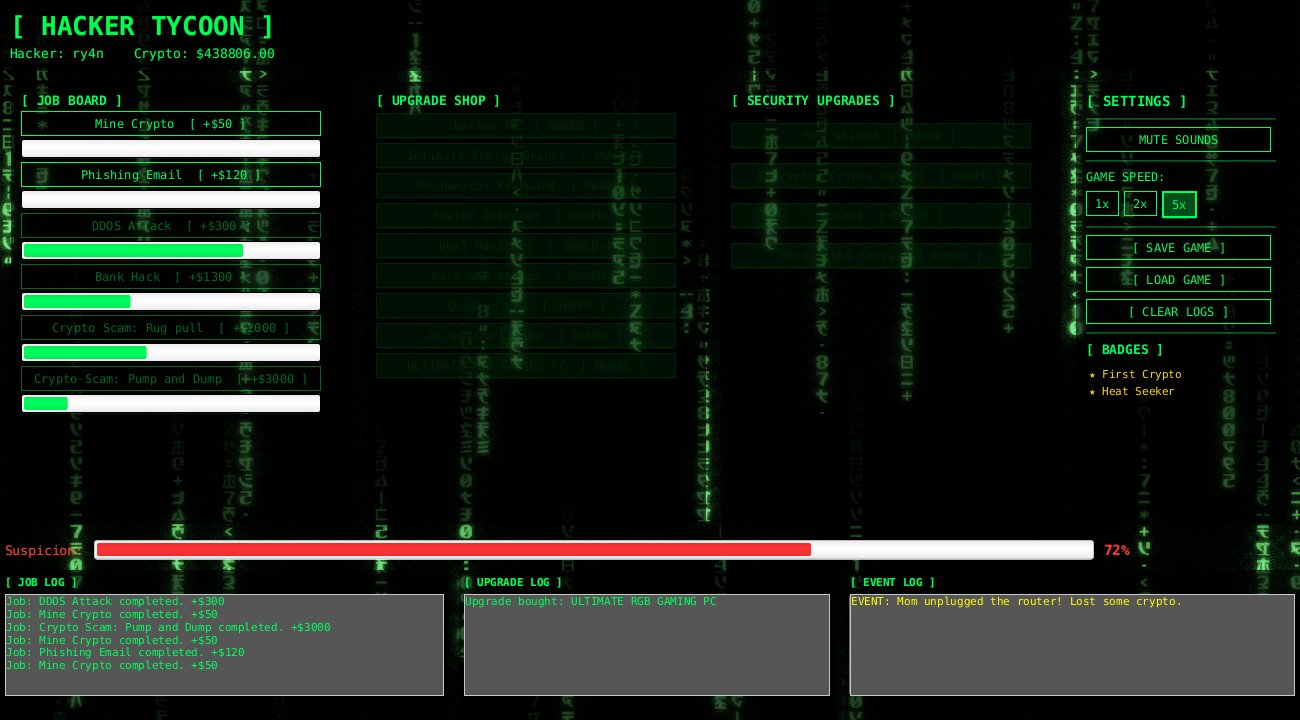
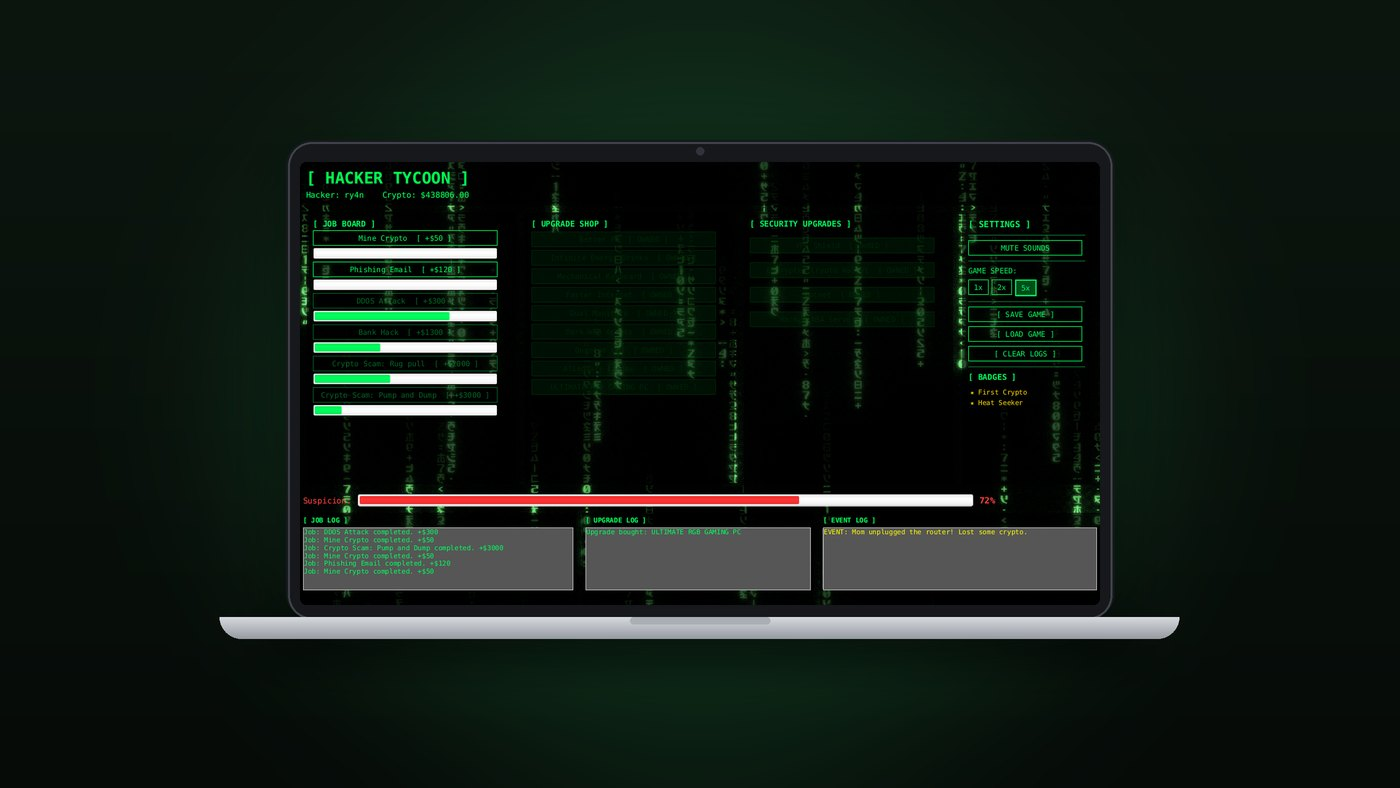
Device-mockup covers for every project, fresh TaskMate screens
Every project cover is now a device mockup on a background tinted to
the project: websites (Nook Look Studio, Vancobab, this site) on a
laptop with a phone in front, apps (TaskMate, FoodRoutes) as three
phones, and Hacker Tycoon, a desktop game, on a laptop. Screenshots are
fresh captures of the live sites; TaskMate's app screens come from a
local run with example BCIT courses, replacing old captures that had
annotation boxes and placeholder test data. The TaskMate case study's
text now matches its new screens.

Card images crop from the centre so a mockup's devices stay whole while
the image drifts, the Projects page shows Vancobab's cover instead of
generated art, and the unused old screenshots are removed.

diff --git a/projects/taskmate.html b/projects/taskmate.html
@@ -113,7 +113,7 @@
             "name": "TaskMate",
             "url": "https://ryanyarali.com/projects/taskmate.html",
             "description": "Mobile-friendly task manager for students, built end to end with Firebase Authentication and Firestore as BCIT coursework (COMM 1800, Team DTC 09) and tested by a nine-person class team.",
-            "image": "https://ryanyarali.com/assets/TaskMate6.jpg",
+            "image": "https://ryanyarali.com/assets/tm-cover.jpg",
             "contributor": {
               "@id": "https://ryanyarali.com/#ryan"
             },
@@ -138,7 +138,7 @@
             },
             "primaryImageOfPage": {
               "@type": "ImageObject",
-              "url": "https://ryanyarali.com/assets/TaskMate6.jpg"
+              "url": "https://ryanyarali.com/assets/tm-cover.jpg"
             }
           },
           {
@@ -147,7 +147,7 @@
             "headline": "TaskMate: academic task management",
             "url": "https://ryanyarali.com/projects/taskmate.html",
             "description": "Case study: a student task manager built end to end with Firebase auth and Firestore as BCIT coursework.",
-            "image": "https://ryanyarali.com/assets/TaskMate6.jpg",
+            "image": "https://ryanyarali.com/assets/tm-cover.jpg",
             "inLanguage": "en",
             "datePublished": "2026-03-27T12:00:00-07:00",
             "dateModified": "2026-10-06T12:00:00-07:00",
@@ -248,10 +248,10 @@
           </div>
           <figure class="case-cover" data-vt="taskmate">
             <img
-              src="../assets/TaskMate6.jpg"
-              alt="TaskMate dashboard listing a student’s tasks by course"
-              width="1000"
-              height="508"
+              src="../assets/tm-cover.jpg"
+              alt="Three TaskMate phone screens: the home dashboard welcoming Ryan, the To Do list grouped by due date with priorities, and completed tasks with check marks"
+              width="1400"
+              height="788"
               fetchpriority="high"
               decoding="async"
             />
@@ -318,35 +318,35 @@
 
               <div class="screenshots-grid">
                 <figure class="reveal">
-                  <img src="../assets/TaskMate1.jpg" alt="Home dashboard screen" width="440" height="880" />
+                  <img src="../assets/tm-home.jpg" alt="Home dashboard on a phone: Welcome, Ryan!, Add New Task and View All Tasks buttons, the start of Today's Tasks, and the bottom tab bar" width="520" height="1125" loading="lazy" decoding="async" />
                   <figcaption>
                     <strong>Screen 1: Home dashboard</strong><br />Personalized
                     welcome with today's tasks
                   </figcaption>
                 </figure>
                 <figure class="reveal">
-                  <img src="../assets/TaskMate2.jpg" alt="Pending tasks screen" width="440" height="866" />
+                  <img src="../assets/tm-todo.jpg" alt="To Do list on a phone: course and priority filters above tasks grouped by due date, each with a course, a task name, a priority and an empty circle" width="520" height="1125" loading="lazy" decoding="async" />
                   <figcaption>
                     <strong>Screen 2: Pending tasks</strong><br />All
                     incomplete tasks sorted by due date
                   </figcaption>
                 </figure>
                 <figure class="reveal">
-                  <img src="../assets/TaskMate3.jpg" alt="Completed tasks screen" width="440" height="833" />
+                  <img src="../assets/tm-done.jpg" alt="Done list on a phone: filters and a Delete All button above completed tasks grouped by completion date, each with a red check mark" width="520" height="1125" loading="lazy" decoding="async" />
                   <figcaption>
                     <strong>Screen 3: Completed tasks</strong><br />Progress
                     history and completion tracking
                   </figcaption>
                 </figure>
                 <figure class="reveal">
-                  <img src="../assets/TaskMate4.jpg" alt="Task detail screen" width="316" height="296" />
+                  <img src="../assets/tm-detail.jpg" alt="Task Detail screen on a phone: editable course, task name, description, due date and priority fields" width="520" height="1125" loading="lazy" decoding="async" />
                   <figcaption>
-                    <strong>Screen 4: Task details</strong><br />Priority
-                    badges and course context
+                    <strong>Screen 4: Task details</strong><br />Edit any
+                    field, then save or delete
                   </figcaption>
                 </figure>
                 <figure class="reveal">
-                  <img src="../assets/TaskMate5.jpg" alt="FAQ and help screen" width="440" height="424" />
+                  <img src="../assets/tm-faq.jpg" alt="FAQ screen on a phone: category filter chips and expandable questions, with the first answer open" width="520" height="1125" loading="lazy" decoding="async" />
                   <figcaption>
                     <strong>Screen 5: FAQ &amp; help</strong><br />Categorized
                     Q&amp;A with expandable answers
@@ -358,8 +358,8 @@
 
               <h4>Home dashboard (screen 1)</h4>
               <p>
-                The home screen greets users by name (e.g. "Welcome, Fish
-                Liu!") with the tagline: "Stay focused. Stay productive. One
+                The home screen greets users by name (e.g. "Welcome,
+                Ryan!") with the tagline: "Stay focused. Stay productive. One
                 task at a time."
               </p>
               <p><strong>Key UI elements:</strong></p>
@@ -385,8 +385,8 @@
               </p>
               <p><strong>Each task card shows:</strong></p>
               <ul>
-                <li>Course name (e.g. COMP1510, Math, 1800)</li>
-                <li>Task name (e.g. Term project, Submission)</li>
+                <li>Course name (e.g. COMP 2537, COMM 1116, MATH 2030)</li>
+                <li>Task name (e.g. Lab 6, Essay, Quiz 4)</li>
                 <li>Priority level: high / medium / low</li>
                 <li>An empty circle on the right to mark as complete</li>
               </ul>
@@ -403,14 +403,14 @@
                 can see what they've gotten through over the term.
               </p>
 
-              <h4>Task card detail (screen 4)</h4>
-              <p>A focused view of task information when expanded, showing:</p>
+              <h4>Task detail (screen 4)</h4>
+              <p>Tapping a task opens it for editing, with every field in one place:</p>
               <ul>
-                <li>Task name</li>
-                <li>Priority badge (color-coded)</li>
-                <li>Course identifier</li>
-                <li>Category / course section</li>
-                <li>Due date status</li>
+                <li>Course name and task name</li>
+                <li>Description</li>
+                <li>Due date</li>
+                <li>Priority: low / medium / high</li>
+                <li>"Save changes" and "Delete task" actions</li>
               </ul>
 
               <h4>FAQ / help page (screen 5)</h4>

diff --git a/projects.html b/projects.html
@@ -134,7 +134,7 @@
                     "name": "Nook Look Studio",
                     "url": "https://nooklook.ca",
                     "description": "Website for Nook Look Studio, a portrait photography studio in Coquitlam, BC: four priced service lines, a booking pipeline, a filterable gallery and local SEO. Built and launched solo by Ryan Yarali on WordPress.",
-                    "image": "https://ryanyarali.com/assets/nl-hero.jpg",
+                    "image": "https://ryanyarali.com/assets/nl-cover.jpg",
                     "creator": {
                       "@id": "https://ryanyarali.com/#ryan"
                     },
@@ -154,7 +154,7 @@
                     "name": "Vancobab",
                     "url": "https://vancobab.ca",
                     "description": "Five-page website for Vancobab, a Persian kebab food truck in Vancouver: a Persian visual identity, launch signups while the truck gets ready, and a vanilla JavaScript order builder ready for opening day.",
-                    "image": "https://ryanyarali.com/assets/vb-hero.jpg",
+                    "image": "https://ryanyarali.com/assets/vb-cover.jpg",
                     "creator": {
                       "@id": "https://ryanyarali.com/#ryan"
                     },
@@ -194,7 +194,7 @@
                     "name": "TaskMate",
                     "url": "https://ryanyarali.com/projects/taskmate.html",
                     "description": "Mobile-friendly task manager for students, built end to end with Firebase Authentication and Firestore as BCIT coursework (COMM 1800, Team DTC 09) and tested by a nine-person class team.",
-                    "image": "https://ryanyarali.com/assets/TaskMate6.jpg",
+                    "image": "https://ryanyarali.com/assets/tm-cover.jpg",
                     "contributor": {
                       "@id": "https://ryanyarali.com/#ryan"
                     },
@@ -352,7 +352,7 @@
               <div class="project-accordion-panel" id="project-panel-nooklook">
                 <div class="project-accordion-panel-inner">
                   <a class="project-accordion-media" href="projects/nooklook.html" data-vt="nooklook" aria-label="Open Nook Look Studio">
-                    <img src="assets/nl-hero.jpg" alt="Nook Look Studio home page: a dark text panel beside a full-height maternity photograph" loading="lazy" decoding="async" width="1400" height="776">
+                    <img src="assets/nl-cover.jpg" alt="Nook Look Studio website on a laptop and a phone: a dark panel reading Warm, unhurried portraits beside a maternity photograph by a lake" loading="lazy" decoding="async" width="1400" height="788">
                   </a>
                   <div class="project-accordion-copy">
                     <p>
@@ -415,9 +415,8 @@
               </button>
               <div class="project-accordion-panel" id="project-panel-vancobab">
                 <div class="project-accordion-panel-inner">
-                  <a class="project-accordion-media" href="projects/vancobab.html" aria-label="Open the Vancobab case study">
-                    <canvas data-art="vancobab" aria-hidden="true">
-                    </canvas>
+                  <a class="project-accordion-media" href="projects/vancobab.html" data-vt="vancobab" aria-label="Open the Vancobab case study">
+                    <img src="assets/vb-cover.jpg" alt="Vancobab website on a laptop and a phone: the headline Persian kebab, fresh off the grill beside a gold Persian medallion around the flame emblem" loading="lazy" decoding="async" width="1400" height="788">
                   </a>
                   <div class="project-accordion-copy">
                     <p>
@@ -478,7 +477,7 @@
               <div class="project-accordion-panel" id="project-panel-taskmate">
                 <div class="project-accordion-panel-inner">
                   <a class="project-accordion-media" href="projects/taskmate.html" data-vt="taskmate" aria-label="Open TaskMate">
-                    <img src="assets/TaskMate6.jpg" alt="TaskMate dashboard listing a student's tasks by course" loading="lazy" decoding="async" width="1000" height="508">
+                    <img src="assets/tm-cover.jpg" alt="Three TaskMate phone screens: the home dashboard welcoming Ryan, the To Do list grouped by due date with priorities, and completed tasks with check marks" loading="lazy" decoding="async" width="1400" height="788">
                   </a>
                   <div class="project-accordion-copy">
                     <p>
@@ -596,7 +595,7 @@
               <div class="project-accordion-panel" id="project-panel-hackertycoon">
                 <div class="project-accordion-panel-inner">
                   <a class="project-accordion-media" href="projects/hackertycoon.html" data-vt="hackertycoon" aria-label="Open Hacker Tycoon">
-                    <img src="assets/ht-cover.jpg" alt="Hacker Tycoon game window with a job board, upgrade shops, badges and a suspicion meter at 72% over falling green code" loading="lazy" decoding="async" width="1300" height="720">
+                    <img src="assets/ht-cover.jpg" alt="Hacker Tycoon on a laptop: a job board with progress bars, upgrade shops, badges, a suspicion meter at 72%, and three logs over falling green code" loading="lazy" decoding="async" width="1400" height="788">
                   </a>
                   <div class="project-accordion-copy">
                     <p>

diff --git a/index.html b/index.html
@@ -227,7 +227,7 @@
                   "name": "Nook Look Studio",
                   "url": "https://nooklook.ca",
                   "description": "Website for Nook Look Studio, a portrait photography studio in Coquitlam, BC: four priced service lines, a booking pipeline, a filterable gallery and local SEO. Built and launched solo by Ryan Yarali on WordPress.",
-                  "image": "https://ryanyarali.com/assets/nl-hero.jpg",
+                  "image": "https://ryanyarali.com/assets/nl-cover.jpg",
                   "creator": {
                     "@id": "https://ryanyarali.com/#ryan"
                   },
@@ -247,7 +247,7 @@
                   "name": "Vancobab",
                   "url": "https://vancobab.ca",
                   "description": "Five-page website for Vancobab, a Persian kebab food truck in Vancouver: a Persian visual identity, launch signups while the truck gets ready, and a vanilla JavaScript order builder ready for opening day.",
-                  "image": "https://ryanyarali.com/assets/vb-hero.jpg",
+                  "image": "https://ryanyarali.com/assets/vb-cover.jpg",
                   "creator": {
                     "@id": "https://ryanyarali.com/#ryan"
                   },
@@ -287,7 +287,7 @@
                   "name": "TaskMate",
                   "url": "https://ryanyarali.com/projects/taskmate.html",
                   "description": "Mobile-friendly task manager for students, built end to end with Firebase Authentication and Firestore as BCIT coursework (COMM 1800, Team DTC 09) and tested by a nine-person class team.",
-                  "image": "https://ryanyarali.com/assets/TaskMate6.jpg",
+                  "image": "https://ryanyarali.com/assets/tm-cover.jpg",
                   "contributor": {
                     "@id": "https://ryanyarali.com/#ryan"
                   },
@@ -508,7 +508,7 @@
               <ol class="work-track" aria-label="Projects">
               <li class="work-card" id="work-nooklook">
                 <a class="work-media" href="projects/nooklook.html" data-vt="nooklook" aria-label="Read the Nook Look Studio case study">
-                  <img src="assets/nl-hero.jpg" alt="Nook Look Studio home page: a dark text panel beside a full-height maternity photograph" loading="lazy" decoding="async" width="1400" height="776" />
+                  <img src="assets/nl-cover.jpg" alt="Nook Look Studio website on a laptop and a phone: a dark panel reading Warm, unhurried portraits beside a maternity photograph by a lake" loading="lazy" decoding="async" width="1400" height="788" />
                 </a>
                 <div class="work-body">
                   <p class="work-meta">
@@ -546,7 +546,7 @@
               </li>
               <li class="work-card" id="work-vancobab">
                 <a class="work-media" href="projects/vancobab.html" data-vt="vancobab" aria-label="Read the Vancobab case study">
-                  <img src="assets/vb-hero.jpg" alt="Vancobab home page: the headline 'Persian kebab, fresh off the grill' beside an ornate flame emblem" loading="lazy" decoding="async" width="1400" height="788" />
+                  <img src="assets/vb-cover.jpg" alt="Vancobab website on a laptop and a phone: the headline Persian kebab, fresh off the grill beside a gold Persian medallion around the flame emblem" loading="lazy" decoding="async" width="1400" height="788" />
                 </a>
                 <div class="work-body">
                   <p class="work-meta">
@@ -584,7 +584,7 @@
 
               <li class="work-card" id="work-taskmate">
                 <a class="work-media" href="projects/taskmate.html" data-vt="taskmate" aria-label="Read the TaskMate case study">
-                  <img src="assets/TaskMate6.jpg" alt="TaskMate dashboard listing a student's tasks by course" loading="lazy" decoding="async" width="1000" height="508" />
+                  <img src="assets/tm-cover.jpg" alt="Three TaskMate phone screens: the home dashboard welcoming Ryan, the To Do list grouped by due date with priorities, and completed tasks with check marks" loading="lazy" decoding="async" width="1400" height="788" />
                 </a>
                 <div class="work-body">
                   <p class="work-meta">
@@ -654,7 +654,7 @@
               </li>
               <li class="work-card" id="work-hackertycoon">
                 <a class="work-media" href="projects/hackertycoon.html" data-vt="hackertycoon" aria-label="Read the Hacker Tycoon case study">
-                  <img src="assets/ht-cover.jpg" alt="Hacker Tycoon game window with a job board, upgrade shops, badges and a suspicion meter at 72% over falling green code" loading="lazy" decoding="async" width="1300" height="720" />
+                  <img src="assets/ht-cover.jpg" alt="Hacker Tycoon on a laptop: a job board with progress bars, upgrade shops, badges, a suspicion meter at 72%, and three logs over falling green code" loading="lazy" decoding="async" width="1400" height="788" />
                 </a>
                 <div class="work-body">
                   <p class="work-meta">

diff --git a/projects/nooklook.html b/projects/nooklook.html
@@ -113,7 +113,7 @@
             "name": "Nook Look Studio",
             "url": "https://nooklook.ca",
             "description": "Website for Nook Look Studio, a portrait photography studio in Coquitlam, BC: four priced service lines, a booking pipeline, a filterable gallery and local SEO. Built and launched solo by Ryan Yarali on WordPress.",
-            "image": "https://ryanyarali.com/assets/nl-hero.jpg",
+            "image": "https://ryanyarali.com/assets/nl-cover.jpg",
             "creator": {
               "@id": "https://ryanyarali.com/#ryan"
             },
@@ -137,7 +137,7 @@
             },
             "primaryImageOfPage": {
               "@type": "ImageObject",
-              "url": "https://ryanyarali.com/assets/nl-hero.jpg"
+              "url": "https://ryanyarali.com/assets/nl-cover.jpg"
             }
           },
           {
@@ -146,7 +146,7 @@
             "headline": "Nook Look Studio: photography website",
             "url": "https://ryanyarali.com/projects/nooklook.html",
             "description": "Case study: how Ryan Yarali built and launched a Coquitlam portrait studio's website solo on WordPress.",
-            "image": "https://ryanyarali.com/assets/nl-hero.jpg",
+            "image": "https://ryanyarali.com/assets/nl-cover.jpg",
             "inLanguage": "en",
             "datePublished": "2026-09-10T12:00:00-07:00",
             "dateModified": "2026-10-06T12:00:00-07:00",
@@ -247,10 +247,10 @@
           </div>
           <figure class="case-cover" data-vt="nooklook">
             <img
-              src="../assets/nl-hero.jpg"
-              alt="Nook Look Studio home page: a dark charcoal text panel reading “Warm, unhurried portraits” beside a full-height maternity photograph, under a floating pill navigation bar"
+              src="../assets/nl-cover.jpg"
+              alt="Nook Look Studio website on a laptop and a phone: a dark panel reading Warm, unhurried portraits beside a maternity photograph by a lake"
               width="1400"
-              height="776"
+              height="788"
               fetchpriority="high"
               decoding="async"
             />

diff --git a/projects/vancobab.html b/projects/vancobab.html
@@ -113,7 +113,7 @@
             "name": "Vancobab",
             "url": "https://vancobab.ca",
             "description": "Five-page website for Vancobab, a Persian kebab food truck in Vancouver: a Persian visual identity, launch signups while the truck gets ready, and a vanilla JavaScript order builder ready for opening day.",
-            "image": "https://ryanyarali.com/assets/vb-hero.jpg",
+            "image": "https://ryanyarali.com/assets/vb-cover.jpg",
             "creator": {
               "@id": "https://ryanyarali.com/#ryan"
             },
@@ -137,7 +137,7 @@
             },
             "primaryImageOfPage": {
               "@type": "ImageObject",
-              "url": "https://ryanyarali.com/assets/vb-hero.jpg"
+              "url": "https://ryanyarali.com/assets/vb-cover.jpg"
             }
           },
           {
@@ -146,7 +146,7 @@
             "headline": "Vancobab: food truck website",
             "url": "https://ryanyarali.com/projects/vancobab.html",
             "description": "Case study: how Ryan Yarali designed and built a Vancouver Persian kebab food truck's website in plain HTML, CSS and JavaScript, and turned it into a pre-launch site when the truck's opening moved.",
-            "image": "https://ryanyarali.com/assets/vb-hero.jpg",
+            "image": "https://ryanyarali.com/assets/vb-cover.jpg",
             "inLanguage": "en",
             "datePublished": "2026-10-12T12:00:00-07:00",
             "dateModified": "2026-10-12T12:00:00-07:00",
@@ -247,8 +247,8 @@
           </div>
           <figure class="case-cover" data-vt="vancobab">
             <img
-              src="../assets/vb-hero.jpg"
-              alt="Vancobab home page: the headline 'Persian kebab, fresh off the grill' beside an ornate flame emblem"
+              src="../assets/vb-cover.jpg"
+              alt="Vancobab website on a laptop and a phone: the headline Persian kebab, fresh off the grill beside a gold Persian medallion around the flame emblem"
               width="1400"
               height="788"
               fetchpriority="high"

diff --git a/projects/this-site.html b/projects/this-site.html
@@ -121,7 +121,7 @@
             },
             "primaryImageOfPage": {
               "@type": "ImageObject",
-              "url": "https://ryanyarali.com/assets/site-hero.jpg"
+              "url": "https://ryanyarali.com/assets/site-cover.jpg"
             }
           },
           {
@@ -130,7 +130,7 @@
             "headline": "How this site is built",
             "url": "https://ryanyarali.com/projects/this-site.html",
             "description": "Case study: the design and engineering of ryanyarali.com.",
-            "image": "https://ryanyarali.com/assets/site-hero.jpg",
+            "image": "https://ryanyarali.com/assets/site-cover.jpg",
             "inLanguage": "en",
             "datePublished": "2026-10-06T12:00:00-07:00",
             "dateModified": "2026-10-06T12:00:00-07:00",
@@ -231,8 +231,8 @@
           </div>
           <figure class="case-cover">
             <img
-              src="../assets/site-hero.jpg"
-              alt="The ryanyarali.com hero: the name in large type beside a glowing network globe whose labelled nodes are projects and tools"
+              src="../assets/site-cover.jpg"
+              alt="This portfolio on a laptop and a phone: Ryan Yarali's name beside a 3D network globe, with Ping on the route line"
               width="1400"
               height="788"
               fetchpriority="high"

diff --git a/projects/hackertycoon.html b/projects/hackertycoon.html
@@ -240,9 +240,9 @@
           <figure class="case-cover" data-vt="hackertycoon">
             <img
               src="../assets/ht-cover.jpg"
-              alt="Hacker Tycoon game window over a falling green code background: a job board with progress bars, two upgrade shops, settings and badges, a suspicion meter at 72%, and job, upgrade and event logs"
-              width="1300"
-              height="720"
+              alt="Hacker Tycoon on a laptop: a job board with progress bars, upgrade shops, badges, a suspicion meter at 72%, and three logs over falling green code"
+              width="1400"
+              height="788"
               fetchpriority="high"
               decoding="async"
             />

diff --git a/assets/css/motion.css b/assets/css/motion.css
@@ -591,7 +591,8 @@ html.is-stacked main > .is-covered {
   max-width: none;
   height: 100%;
   object-fit: cover;
-  object-position: top center;
+  /* Covers are device mockups with margin all round, so crop evenly. */
+  object-position: center;
   display: block;
   will-change: transform;
 }
